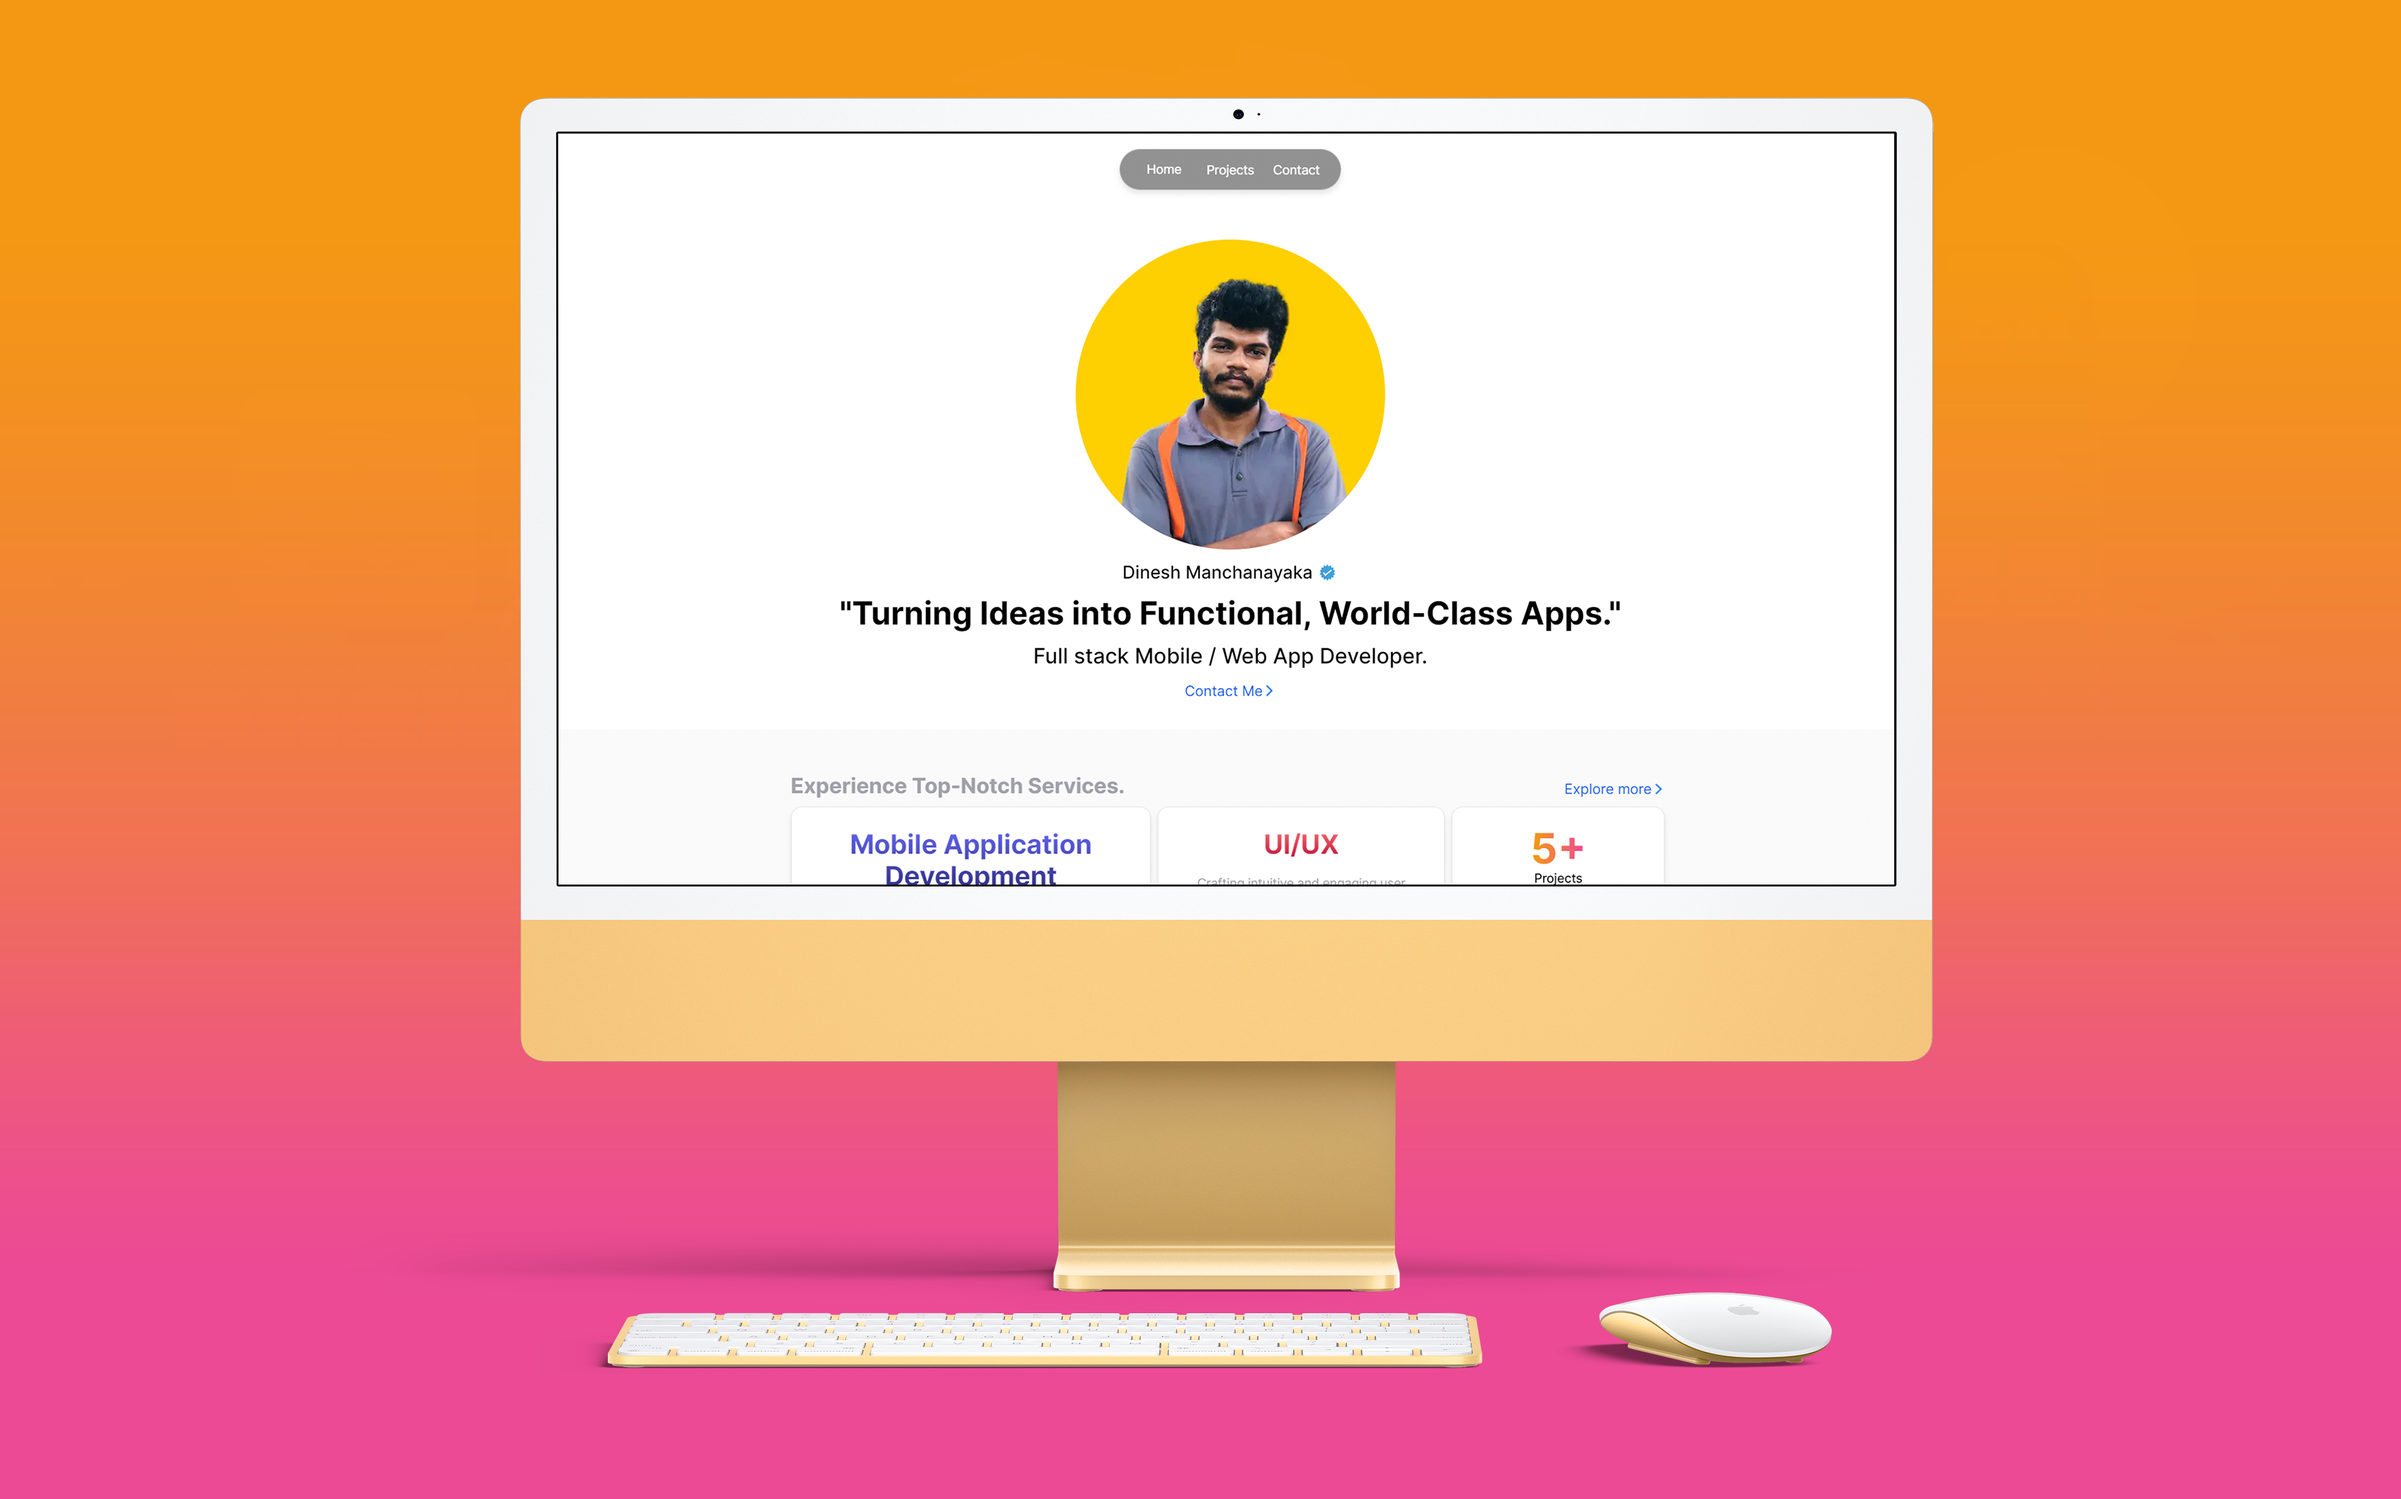
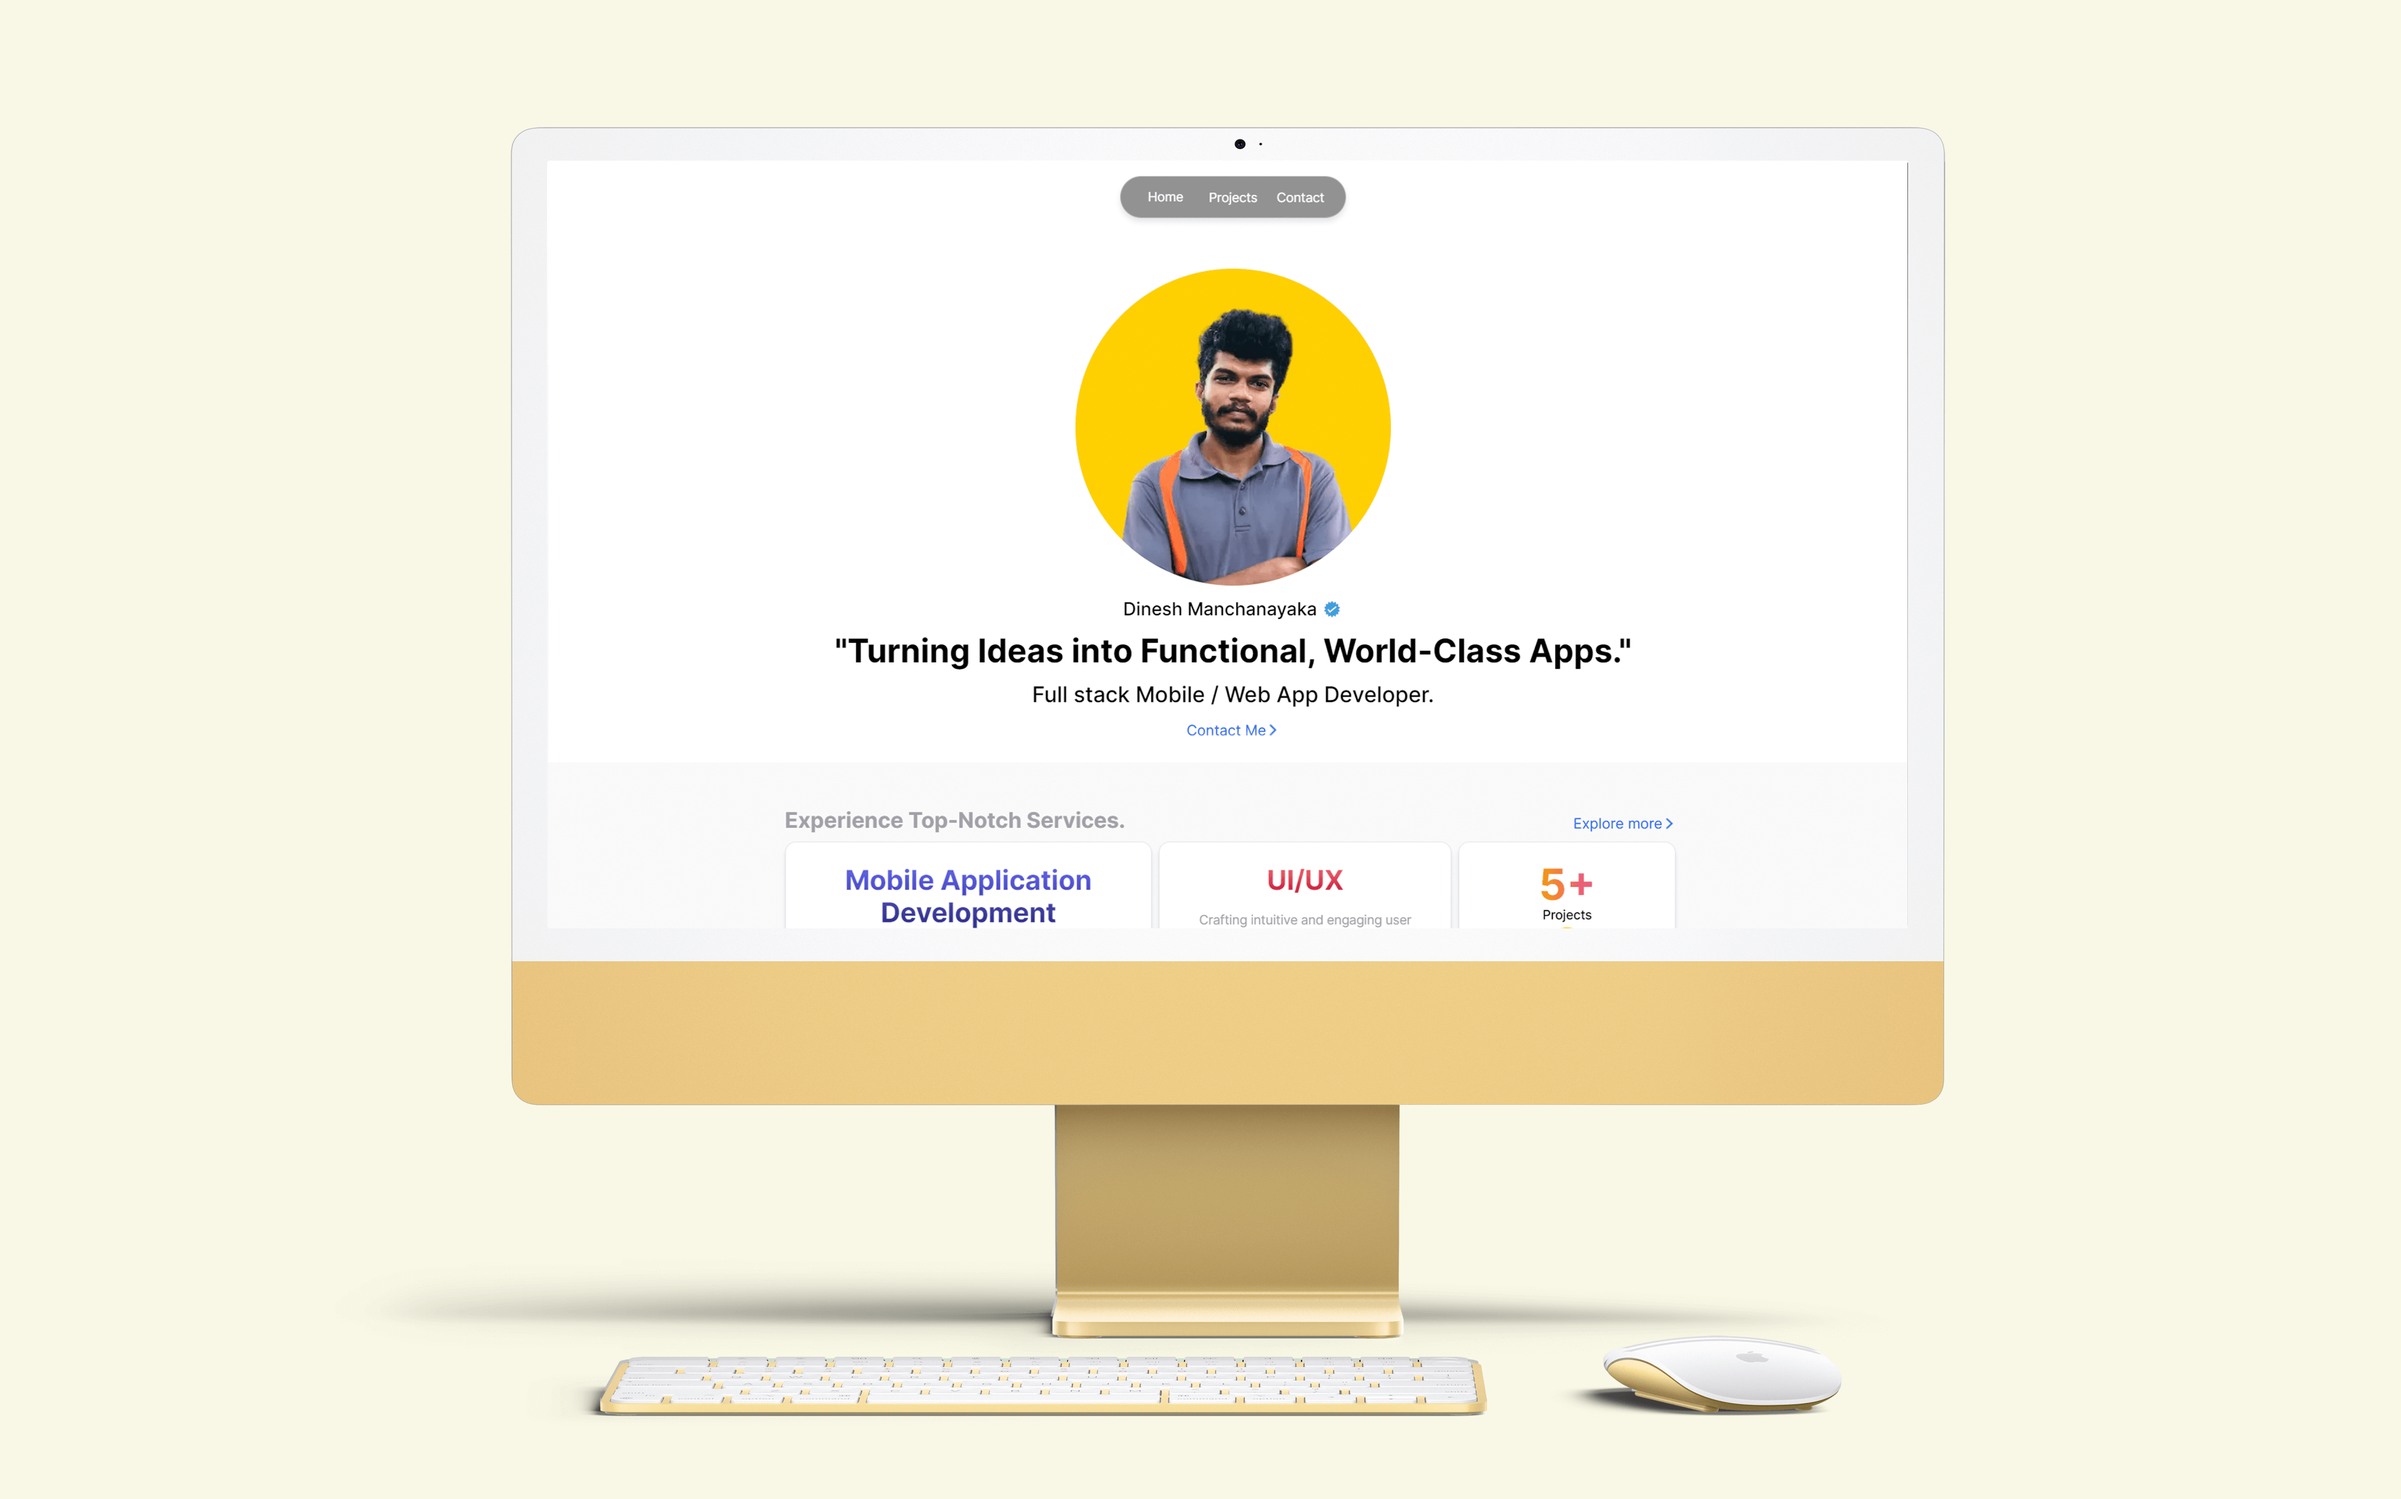
ui : projects 🚀

diff --git a/components/projects/projectItems.tsx b/components/projects/projectItems.tsx
@@ -1,48 +1,23 @@
-import React, { ReactNode } from "react";
+import React from "react";
 import Image from "next/image";
+import { projects } from "../../constants/projects";
+import Link from "next/link";
 
 const ProjectItems = () => {
   return (
-    <div className="min-h-screen ">
+    <div className="min-h-screen">
       <div className="mx-auto grid max-w-5xl grid-flow-dense grid-cols-2 gap-2">
-        <ProjectBlock
-          img="/food.png"
-          title="Food Ordering Application"
-          description="Food Order App is a user-friendly mobile application designed to simplify the food ordering and delivery process."
-          techIconPath={["/tech_svg/flutter.svg", "/tech_svg/firebase.svg"]}
-        />
-        <ProjectBlock
-          img="/todo.png"
-          title="ToDoEase 2.0"
-          description="ToDoEase is a Flutter-based mobile application designed to help users manage their daily tasks efficiently. "
-          techIconPath={[
-            "/tech_svg/flutter.svg",
-            "/tech_svg/nodejs.svg",
-            "/tech_svg/express.svg",
-            "/tech_svg/mongodb.svg",
-          ]}
-        />
-        <ProjectBlock
-          img="/portfolio.png"
-          title="Portfolio"
-          description="Portfolio website for me!. Created with NEXT.JS "
-          techIconPath={["/tech_svg/nextjs.svg", "/tech_svg/typescript.svg"]}
-        />
-
-        <div className="col-span-2 sm:col-span-1 bg-white p-1 rounded-xl items-center justify-center">
-          <div className="h-full flex flex-col items-center justify-center">
-            <p className="font-semibold pb-8 text-xl">Explore More Works</p>
-            <div className="flex items-center justify-center rounded-full bg-lime">
-              <Image
-                className=""
-                src="/arrow.svg"
-                alt="arrow"
-                width={100}
-                height={15}
-              />
-            </div>
-          </div>
-        </div>
+        {projects.map((project, index) => (
+          <ProjectBlock
+            key={index}
+            img={project.img}
+            title={project.title}
+            description={project.description}
+            techIconPath={project.techIconPath}
+            gitRepo={project.gitRepo}
+          />
+        ))}
+        {ExploreMore}
       </div>
     </div>
   );
@@ -55,37 +30,48 @@ type Props = {
   description: string;
   img: string;
   techIconPath: string[];
+  gitRepo: string;
 };
 
-const ProjectBlock = ({ title, description, img, techIconPath }: Props) => {
+const ProjectBlock = ({
+  title,
+  description,
+  img,
+  techIconPath,
+  gitRepo,
+}: Props) => {
   return (
-    <div className="col-span-2 sm:col-span-1 bg-white p-1 rounded-xl hover:scale-105 shadow-xl">
-      <div className="flex ">
-        <div className="w-full h-full p-3 ">
+    <div className="col-span-2 sm:col-span-1 bg-white p-1 rounded-xl shadow-xl border hover:scale-105 transition-transform duration-300">
+      <div className="flex">
+        <div className="w-full h-full p-3">
           <Image
             src={img}
             width={500}
             height={100}
             alt="i1"
-            className="rounded-xl "
+            className="rounded-xl"
           />
-          <div className="flex justify-between items-end py-3 ">
-            <h1 className="text-xl font-medium  ">{title}</h1>
-            <Image
-              src="/github.svg"
-              width={30}
-              height={30}
-              alt="github"
-              className="rounded-xl"
-            />
+          <div className="flex justify-between items-end py-3">
+            <h1 className="text-xl font-medium">{title}</h1>
           </div>
-          <p className="text-zinc-400 text-sm  mb-2  text-justify">
+          <p className="text-zinc-400 text-sm mb-2 text-justify">
             {description}
           </p>
-          <div className="flex gap-1">
-            {techIconPath.map((icon) => {
-              return <TechIcon svgPath={icon} />;
-            })}
+          <div className="flex gap-1 justify-between mt-3">
+            <div>
+              {techIconPath.map((icon, idx) => (
+                <TechIcon key={idx} svgPath={icon} />
+              ))}
+            </div>
+            <Link href={gitRepo} target="_blank">
+              <Image
+                src="/github.svg"
+                width={30}
+                height={30}
+                alt="github"
+                className="rounded-xl"
+              />
+            </Link>
           </div>
         </div>
       </div>
@@ -99,7 +85,7 @@ type TechProps = {
 
 const TechIcon = ({ svgPath }: TechProps) => {
   return (
-    <div className="border border-red-200 -mr-3 inline-block p-2 rounded-full text-zinc-700 bg-white hover:scale-105 hover:animate-pulse">
+    <div className="border border-orange-200 -mr-3 inline-block p-2 rounded-full bg-white hover:scale-105 hover:animate-pulse transition-transform duration-300">
       <Image
         src={svgPath}
         width={30}
@@ -110,3 +96,20 @@ const TechIcon = ({ svgPath }: TechProps) => {
     </div>
   );
 };
+
+const ExploreMore = (
+  <div className="col-span-2 sm:col-span-1 bg-white p-1 rounded-xl items-center justify-center">
+    <div className="h-full flex flex-col items-center justify-center">
+      <p className="font-semibold pb-8 text-xl">Explore More Works</p>
+      <div className="flex items-center justify-center rounded-full bg-lime animate-bounce">
+        <Image
+          className=""
+          src="/arrow.svg"
+          alt="arrow"
+          width={100}
+          height={15}
+        />
+      </div>
+    </div>
+  </div>
+);

diff --git a/constants/projects.ts b/constants/projects.ts
@@ -1,0 +1,52 @@
+
+export type Project = {
+    img: string;
+    title: string;
+    description: string;
+    techIconPath: string[];
+    gitRepo:string;
+  };
+  
+  export const projects: Project[] = [
+    {
+      img: "/food.png",
+      title: "Food Ordering Application",
+      description: "Food Order App is a user-friendly mobile application designed to simplify the food ordering and delivery process.",
+      techIconPath: ["/tech_svg/flutter.svg", "/tech_svg/firebase.svg"],
+      gitRepo:"https://github.com/dineshxo/food_order_app_flutter_firebase"
+    },
+    {
+      img: "/todo.png",
+      title: "ToDoEase 2.0",
+      description: "ToDoEase is a Flutter-based mobile application designed to help users manage their daily tasks efficiently.",
+      techIconPath: [
+        "/tech_svg/flutter.svg",
+        "/tech_svg/nodejs.svg",
+        "/tech_svg/express.svg",
+        "/tech_svg/mongodb.svg",
+      ],
+      gitRepo:"https://github.com/dineshxo/ToDoEase-2.0"
+    },
+    {
+      img: "/portfolio.png",
+      title: "Portfolio",
+      description: "Portfolio website of me. Created with NEXT.JS",
+      techIconPath: ["/tech_svg/nextjs.svg", "/tech_svg/typescript.svg"],
+      gitRepo:"https://github.com/dineshxo/dineshxo.github.io"
+    },
+    {
+      img: "/camp.png",
+      title: "Camp Area",
+      description: "Promotional Website for Camping area.",
+      techIconPath: ["/tech_svg/nextjs.svg", "/tech_svg/typescript.svg"],
+      gitRepo:"https://github.com/dineshxo/camping-site-nextjs-test"
+    },
+    {
+      img: "/bmi.png",
+      title: "BMI calculator",
+      description: "A simple BMI (Body Mass Index) calculator with Flutter.",
+      techIconPath: ["/tech_svg/flutter.svg"],
+      gitRepo:"https://github.com/dineshxo/bmi_cal_flutter"
+    },
+  ];
+  

diff --git a/components/projects/projects.tsx b/components/projects/projects.tsx
@@ -3,18 +3,20 @@ import ProjectItems from "./projectItems";
 
 const Projects = () => {
   return (
-    <div className="bg-zinc-50 min-h-screen flex justify-center  p-2 sm:p-10 ">
-      <div className="max-w-5xl w-full px-4    flex flex-col relative ">
-        <div className=" flex flex-col sm:flex-row sm:justify-between sm:items-end py-2 rounded-lg relative ">
-          <h2 className="text-2xl md:text-5xl font-bold text-zinc-400 mb-2 sm:mb-0">
-            Projects
-          </h2>
-        </div>
-        <div className=" flex-grow ">
-          <ProjectItems />
+    <section id="projects">
+      <div className="bg-zinc-100 min-h-screen flex justify-center  p-2 sm:p-10 ">
+        <div className="max-w-5xl w-full px-4    flex flex-col relative ">
+          <div className=" flex flex-col sm:flex-row sm:justify-between sm:items-end py-2 rounded-lg relative ">
+            <h2 className="text-2xl md:text-7xl mb-2 font-bold text-zinc-300  sm:mb-0">
+              Projects
+            </h2>
+          </div>
+          <div className=" flex-grow ">
+            <ProjectItems />
+          </div>
         </div>
       </div>
-    </div>
+    </section>
   );
 };
 

diff --git a/components/navBar.tsx b/components/navBar.tsx
@@ -15,7 +15,7 @@ const NavBar = () => {
           Home
         </Link>
         <Link
-          href=""
+          href="#projects"
           className="flex-1 text-center transition-all duration-300 hover:text-lime hover:scale-90 text-sm"
         >
           Projects
